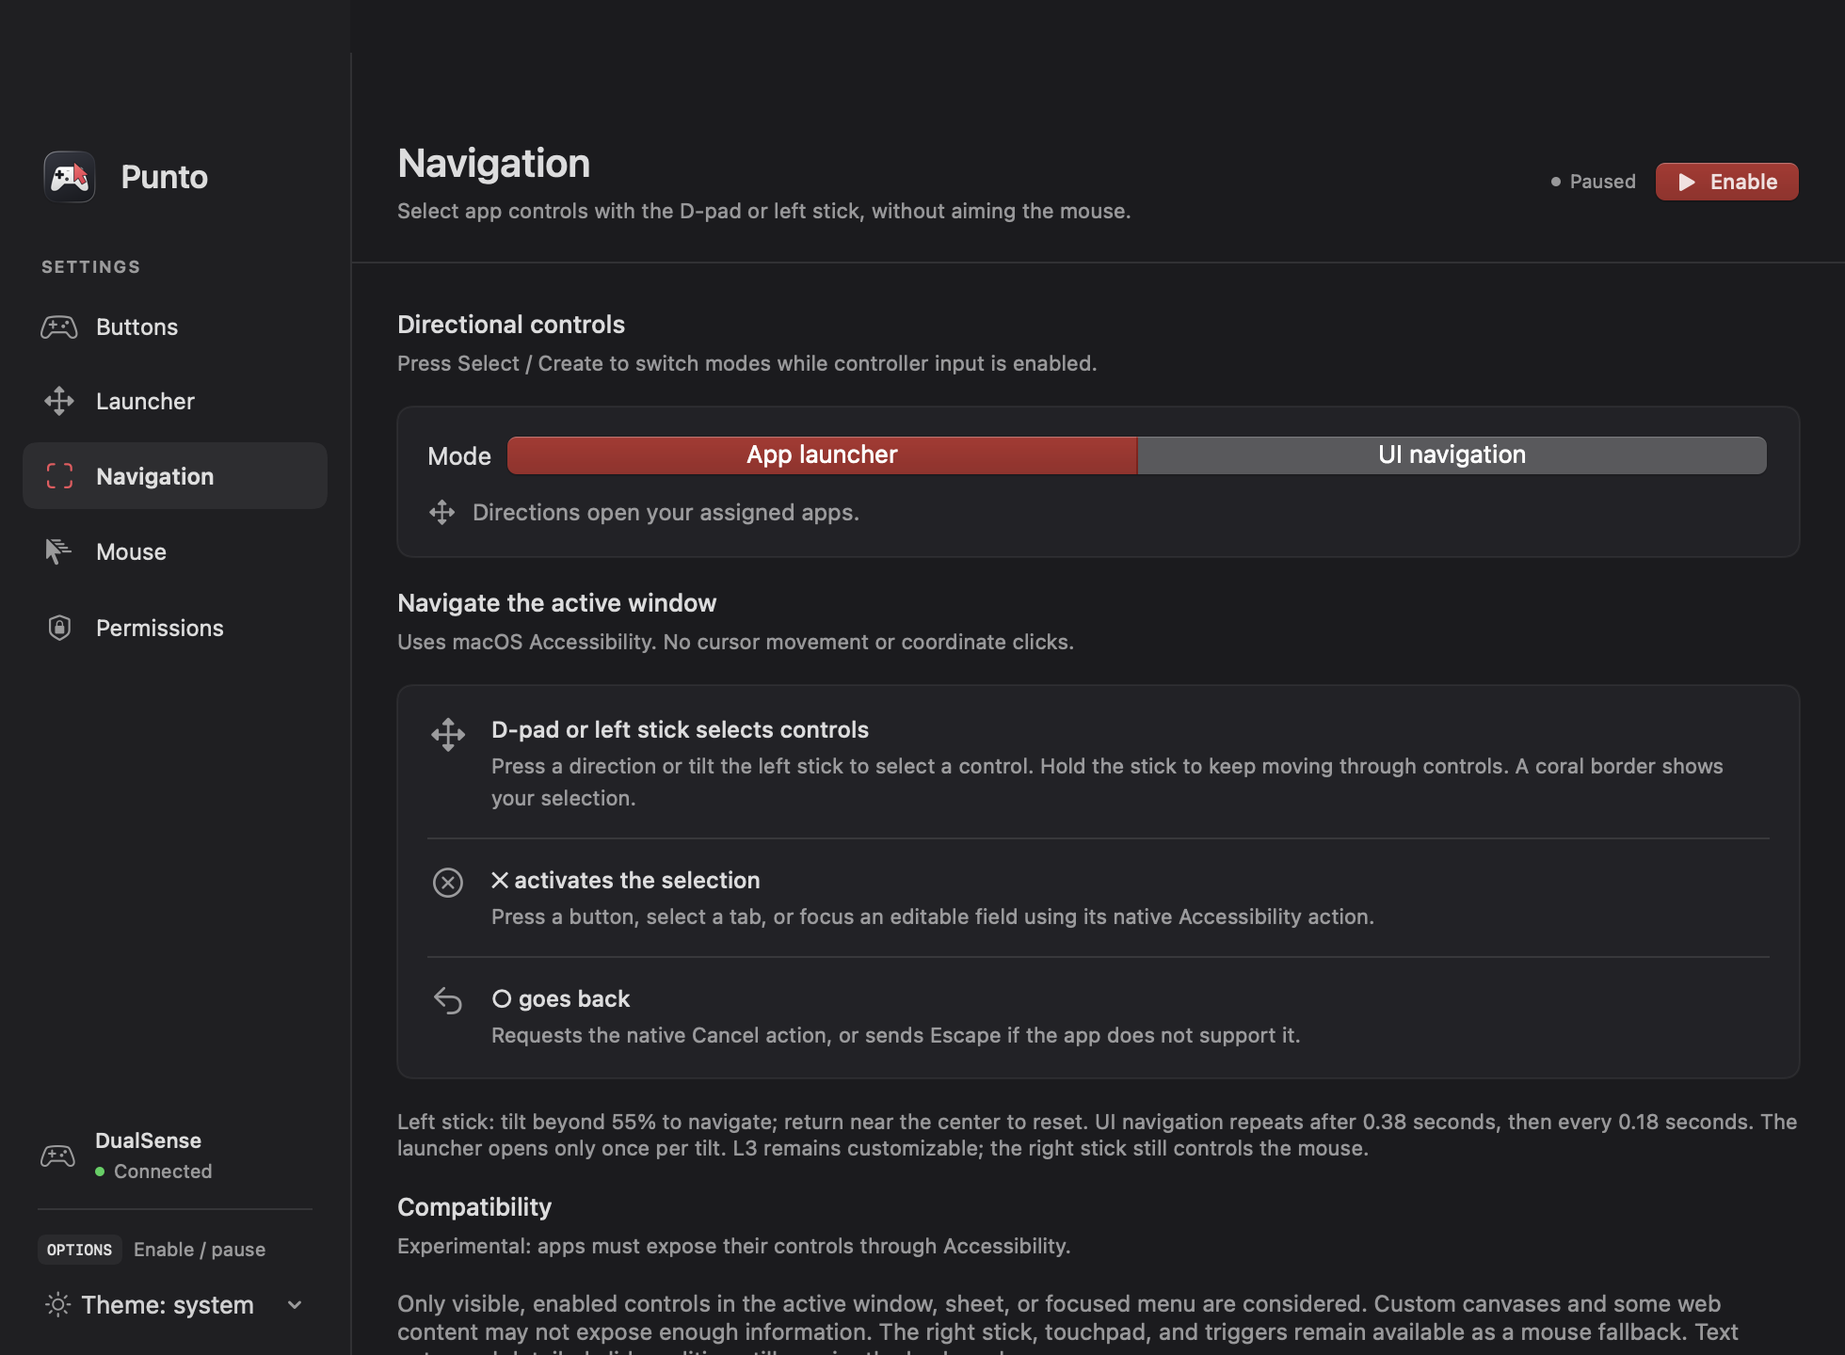
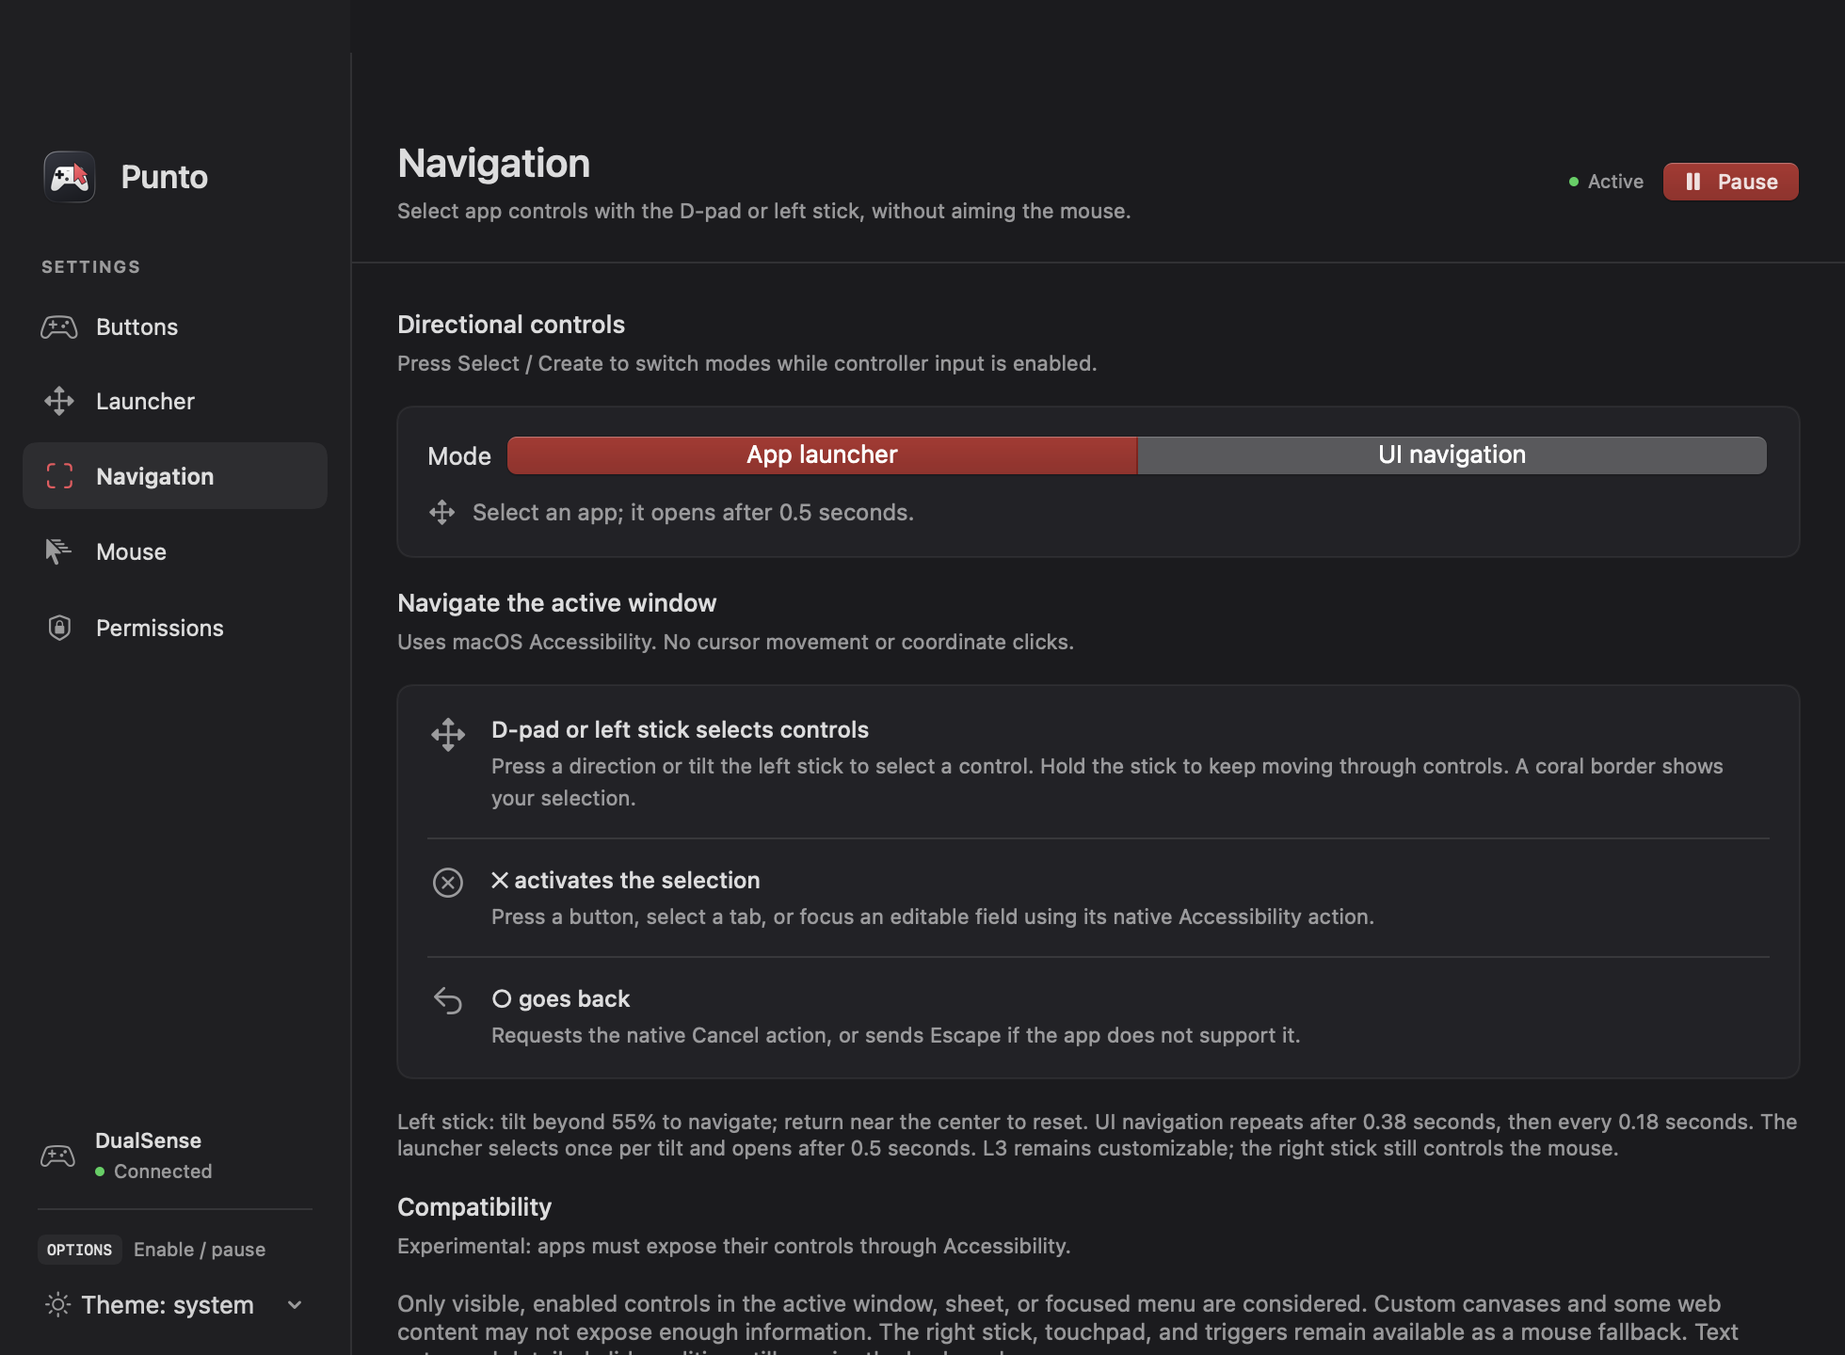
Delay launcher opening until selection is stable for 500 ms

Changed region(s): [[0.2801, 0.8438, 0.8714, 0.875], [0.249, 0.375, 0.498, 0.4062], [0.8403, 0.125, 0.9648, 0.1562]]

diff --git a/UI.swift b/UI.swift
@@ -402,10 +402,10 @@ private struct SettingsView: View {
     }
     private var launcherSettings: some View {
         VStack(alignment: .leading, spacing: 20) {
-            heading("Directional navigation", detail: "Use the D-pad or left stick to open an app. Repeat the same direction while the overlay is visible to open the second.")
+            heading("Directional navigation", detail: "Use the D-pad or left stick to select an app. It opens after 0.5 seconds; changing selection restarts the delay.")
             HStack(spacing: 18) {
-                Label("Instant launch · no confirmation", systemImage: "bolt.fill")
-                Label("○ dismisses the overlay", systemImage: "xmark.circle")
+                Label("Opens after 0.5 s · no confirmation", systemImage: "bolt.fill")
+                Label("○ cancels the pending launch", systemImage: "xmark.circle")
             }.font(.system(size: 11)).foregroundColor(.secondary)
             ForEach(0..<4, id: \.self) { direction in
                 VStack(alignment: .leading, spacing: 12) {
@@ -435,7 +435,7 @@ private struct SettingsView: View {
                     }
                 }.padding(18).card(radius: 8)
             }
-            Text("Controller input must be enabled. The overlay disappears after 1.2 seconds. Directions open apps; ✕ and ○ do not run their normal shortcuts while it is visible. Previous D-pad assignments remain stored; previously assigned apps are migrated to slot 1.")
+            Text("Controller input must be enabled. The overlay disappears after 1.2 seconds. The selected app opens after 0.5 seconds; ✕ and ○ do not run their normal shortcuts while it is visible. Previous D-pad assignments remain stored; previously assigned apps are migrated to slot 1.")
                 .font(.system(size: 10)).foregroundColor(.secondary).lineSpacing(3)
         }
     }
@@ -447,7 +447,7 @@ private struct SettingsView: View {
                     Text("App launcher").tag(false)
                     Text("UI navigation").tag(true)
                 }.pickerStyle(.segmented)
-                Label(model.uiNavigationEnabled ? model.navigationStatus : "Directions open your assigned apps.", systemImage: model.uiNavigationEnabled ? "viewfinder" : "arrow.up.and.down.and.arrow.left.and.right")
+                Label(model.uiNavigationEnabled ? model.navigationStatus : "Select an app; it opens after 0.5 seconds.", systemImage: model.uiNavigationEnabled ? "viewfinder" : "arrow.up.and.down.and.arrow.left.and.right")
                     .font(.system(size: 12)).foregroundColor(.secondary).lineLimit(3)
             }.padding(16).card()
             heading("Navigate the active window", detail: "Uses macOS Accessibility. No cursor movement or coordinate clicks.")
@@ -458,7 +458,7 @@ private struct SettingsView: View {
                 Divider()
                 instruction("arrow.uturn.backward", title: "○ goes back", detail: "Requests the native Cancel action, or sends Escape if the app does not support it.")
             }.padding(16).card()
-            Text("Left stick: tilt beyond 55% to navigate; return near the center to reset. UI navigation repeats after 0.38 seconds, then every 0.18 seconds. The launcher opens only once per tilt. L3 remains customizable; the right stick still controls the mouse.")
+            Text("Left stick: tilt beyond 55% to navigate; return near the center to reset. UI navigation repeats after 0.38 seconds, then every 0.18 seconds. The launcher selects once per tilt and opens after 0.5 seconds. L3 remains customizable; the right stick still controls the mouse.")
                 .font(.system(size: 11)).foregroundColor(.secondary)
             heading("Compatibility", detail: "Experimental: apps must expose their controls through Accessibility.")
             Text("Only visible, enabled controls in the active window, sheet, or focused menu are considered. Custom canvases and some web content may not expose enough information. The right stick, touchpad, and triggers remain available as a mouse fallback. Text entry and detailed slider editing still require the keyboard or mouse.")

diff --git a/tests/launcher-ui.m b/tests/launcher-ui.m
@@ -6,9 +6,11 @@
 #include <assert.h>
 @interface LauncherTestApp : App
 @property NSString *launchedPath;
+@property NSInteger launchCount;
 @end
 @implementation LauncherTestApp
-- (void)launchApplication:(NSString *)path {self.launchedPath=path;}
+- (void)launchApplication:(NSString *)path {self.launchedPath=path;self.launchCount++;}
+- (void)saveNavigationMode {}
 @end
 static NSString *appPath(NSString *identifier){
     return [NSWorkspace.sharedWorkspace URLForApplicationWithBundleIdentifier:identifier].path?:@"";
@@ -30,7 +32,9 @@ int main(void){@autoreleasepool{
     assert([delegate handleButton:15 pressed:YES]);assert(!input_scroll_active());
     assert([[delegate settingsSnapshot][@"launcherVisible"] boolValue]);
     assert([[delegate settingsSnapshot][@"launcherSlot"] intValue]==0);
-    assert([delegate.launchedPath isEqualToString:up[0]]); // Immediate automatic launch.
+    assert(!delegate.launchedPath&&[delegate.pendingLauncherPath isEqual:up[0]]);
+    double firstDeadline=delegate.launcherLaunchTime;
+    [delegate updateLauncherAtTime:firstDeadline-0.01 trusted:YES];assert(delegate.launchCount==0);
     assert(application.activationPolicy==NSApplicationActivationPolicyAccessory);
     assert(!delegate.launcherPanel.isKeyWindow);
     assert(delegate.launcherPanel.isVisible); // Overlay alone must not add a Dock icon.
@@ -39,7 +43,12 @@ int main(void){@autoreleasepool{
     assert([delegate handleButton:15 pressed:NO]);
     [delegate handleButton:15 pressed:YES];
     assert([[delegate settingsSnapshot][@"launcherSlot"] intValue]==1);
-    assert([delegate.launchedPath isEqualToString:up[1]]);
+    assert(!delegate.launchedPath&&[delegate.pendingLauncherPath isEqual:up[1]]);
+    assert(delegate.launcherLaunchTime>firstDeadline);
+    [delegate updateLauncherAtTime:firstDeadline trusted:YES];assert(delegate.launchCount==0);
+    [delegate updateLauncherAtTime:delegate.launcherLaunchTime trusted:YES];
+    assert([delegate.launchedPath isEqual:up[1]]&&delegate.launchCount==1);
+    [delegate updateLauncherAtTime:firstDeadline+1 trusted:YES];assert(delegate.launchCount==1);
     [delegate handleButton:18 pressed:YES];
     assert([[delegate settingsSnapshot][@"launcherDirection"] intValue]==3);
     assert([[delegate settingsSnapshot][@"launcherSlot"] intValue]==0);
@@ -48,15 +57,24 @@ int main(void){@autoreleasepool{
     [delegate handleButton:2 pressed:YES];
     assert(![[delegate settingsSnapshot][@"launcherVisible"] boolValue]);
     assert(!delegate.launcherPanel.isVisible&&input_enabled());
-    assert([delegate.launchedPath isEqualToString:beforeCancel]); // Circle does not launch anything.
+    [delegate updateLauncherAtTime:firstDeadline+5 trusted:YES];
+    assert([delegate.launchedPath isEqualToString:beforeCancel]&&delegate.launchCount==1); // Circle cancels the pending app.
     [delegate handleButton:15 pressed:YES];[delegate handleButton:15 pressed:YES];
     [delegate handleButton:1 pressed:YES];
-    assert([delegate.launchedPath isEqualToString:up[1]]);
+    assert(delegate.launchCount==1); // X does not bypass the delay.
+    [delegate updateLauncherAtTime:delegate.launcherLaunchTime trusted:YES];
+    assert([delegate.launchedPath isEqualToString:up[1]]&&delegate.launchCount==2);
     assert([[delegate settingsSnapshot][@"launcherVisible"] boolValue]); // X is not a confirmation.
     assert(delegate.launcherHideTime>NSProcessInfo.processInfo.systemUptime);
     [delegate handleButton:15 pressed:YES];input_enable(false);
     assert(!delegate.launcherPanel.isVisible);
+    [delegate updateLauncherAtTime:firstDeadline+5 trusted:YES];assert(delegate.launchCount==2);
     input_enable(true);[delegate handleButton:15 pressed:YES];
+    [delegate updateLauncherAtTime:delegate.launcherLaunchTime trusted:NO];
+    [delegate updateLauncherAtTime:firstDeadline+5 trusted:YES];assert(delegate.launchCount==2);
+    [delegate handleButton:15 pressed:YES];[delegate setUINavigationEnabled:YES];
+    [delegate updateLauncherAtTime:firstDeadline+5 trusted:YES];assert(delegate.launchCount==2);
+    [delegate setUINavigationEnabled:NO];[delegate handleButton:15 pressed:YES];
     [[NSRunLoop currentRunLoop] runUntilDate:[NSDate dateWithTimeIntervalSinceNow:0.3]];
     NSView *view=delegate.launcherPanel.contentView;[view layoutSubtreeIfNeeded];
     NSBitmapImageRep *bitmap=[view bitmapImageRepForCachingDisplayInRect:view.bounds];
@@ -67,5 +85,5 @@ int main(void){@autoreleasepool{
     assert([png writeToFile:@"build/ui-launcher.png" atomically:YES]);
     [delegate hideLauncher];input_stop();input_button_handler(NULL);currentApp=nil;
     [defaults setVolatileDomain:original?:@{} forName:NSArgumentDomain];
-    puts("PASS: automatic directional launch, two-slot cycle, cancel, suspend cleanup, compact tiles-only layout, no focus or Dock activation");
+    puts("PASS: delayed latest-selection launch, deadline reset, one-shot, cancel/pause/permission/mode-change safety, compact tiles-only layout, no focus or Dock activation");
 }return 0;}

diff --git a/main.m b/main.m
@@ -20,6 +20,8 @@
 @property BOOL navigationMode;
 @property NSPanel *launcherPanel;
 @property double launcherHideTime;
+@property double launcherLaunchTime;
+@property NSString *pendingLauncherPath;
 @property NSStatusItem *item;
 @property NSWindow *window;
 @property NSTimer *timer;
@@ -234,13 +236,21 @@ static void hold_event(int index,HoldEvent event){[currentApp holdEvent:index ev
     input_suppress_pointer(true);
     if(!self.launcherPanel)self.launcherPanel=[PadMacUI makeLauncherWithController:self];
     [self.launcherPanel center];[self.launcherPanel orderFrontRegardless];
-    self.launcherHideTime=NSProcessInfo.processInfo.systemUptime+1.2;
-    NSString *path=[self launcherApps:_launcher.direction][_launcher.slot];
-    if(path.length)[self launchApplication:path];
+    double now=NSProcessInfo.processInfo.systemUptime;
+    self.launcherHideTime=now+1.2;
+    self.pendingLauncherPath=[self launcherApps:_launcher.direction][_launcher.slot];
+    self.launcherLaunchTime=self.pendingLauncherPath.length?now+0.5:0;
 }
 - (void)hideLauncher {
-    self.launcherHideTime=0;launcher_reset(&_launcher);[self.launcherPanel orderOut:nil];
+    self.launcherHideTime=0;self.launcherLaunchTime=0;self.pendingLauncherPath=nil;launcher_reset(&_launcher);[self.launcherPanel orderOut:nil];
     self.launcherPanel.contentView=nil;self.launcherPanel=nil;input_suppress_pointer(false);
+}
+- (void)updateLauncherAtTime:(double)now trusted:(BOOL)trusted {
+    if(!trusted||!input_enabled()||self.navigationMode){self.launcherLaunchTime=0;self.pendingLauncherPath=nil;return;}
+    if(!_launcher.visible||self.launcherLaunchTime<=0||now<self.launcherLaunchTime)return;
+    NSString *path=self.pendingLauncherPath;
+    self.launcherLaunchTime=0;self.pendingLauncherPath=nil;
+    if(path.length)[self launchApplication:path];
 }
 - (void)launchApplication:(NSString *)path {
     if(!path.length)return;
@@ -268,6 +278,7 @@ static void hold_event(int index,HoldEvent event){[currentApp holdEvent:index ev
         if(previous>=0&&_leftStick.direction<0)[self.uiNavigation stopStickNavigation];
         if(direction>=0)[self navigateStickDirection:direction];
     }else stick_navigation_reset(&_leftStick);
+    [self updateLauncherAtTime:now trusted:trusted];
 }
 - (void)toggleControl {
     if(input_enabled()){input_enable(false);return;}

diff --git a/tests/navigation-ui.m b/tests/navigation-ui.m
@@ -40,7 +40,8 @@ int main(void){@autoreleasepool{
     [app handleButton:8 pressed:YES];assert(!app.navigationMode&&!input_scroll_active());
     [app handleButton:8 pressed:NO];assert(!app.navigationMode);
     [app handleButton:1 pressed:YES];assert([app.launchedPath isEqual:@"cross-app"]);
-    [app navigateStickDirection:0];assert(app.launcherPanel.isVisible&&[app.launchedPath isEqual:@"demo-app"]);
+    [app navigateStickDirection:0];assert(app.launcherPanel.isVisible&&[app.launchedPath isEqual:@"cross-app"]);
+    [app updateLauncherAtTime:app.launcherLaunchTime trusted:YES];assert([app.launchedPath isEqual:@"demo-app"]);
     [app handleButton:8 pressed:YES];assert(app.navigationMode&&!app.launcherPanel.isVisible);
     assert([defaults integerForKey:@"action8"]==11&&[[defaults stringForKey:@"app8"] isEqual:@"old-select-app"]);
     assert(![app validButton:8]&&[app validButton:13]);

diff --git a/docs/DEVELOPMENT.md b/docs/DEVELOPMENT.md
@@ -94,11 +94,11 @@ When upgrading from the old bundle, replace the old Dock shortcut with `Punto.ap
 ### Launcher
 
 - Two slots per direction, saved as application paths.
-- A D-pad direction selects and **immediately opens** the first available app.
+- A D-pad direction or left-stick tilt selects the first available app. It opens **500 ms after the last selection**, without confirmation.
 - Pressing the same direction again while the overlay is visible cycles between occupied slots.
 - A different direction selects its first available app.
 - The overlay closes **1.2 seconds** after the last direction press. A later press starts from the first slot again.
-- ○ only dismisses visual feedback; it does not close an app already opened.
+- Changing selection restarts the 500 ms deadline and replaces the pending app. ○ cancels pending launch and dismisses feedback; it does not close an app already opened. Pause, disconnect, permission loss, mode changes, and overlay closure also cancel pending launch. The deadline is checked after stick navigation in the main tick, so a new selection takes precedence over an expiring launch.
 - The non-activating panel is at most **368 × 368 points**, with eight 64-point square tiles arranged by direction. Up/down pairs are stacked vertically; left/right pairs are horizontal. The four arms align on a regular grid around a 64-point empty center, with 6-point gaps between cells. The horizontal center gap includes the two adjacent gaps (76 points total). Background material is applied to each tile, not to the whole panel, so the center and corners remain transparent. Slot 1 is always nearest the center and slot 2 extends outward: visual order is reversed for Up and Left, without changing saved assignments or launch order. There is no center icon, header, footer, or instructional text; the selected tile has a coral border. Direction and slot labels remain available to Accessibility. It does not steal focus or add a Dock icon on its own.
 - Other buttons are consumed and cursor movement is suppressed while the overlay is visible.
 
@@ -149,7 +149,7 @@ make test-navigation-ui
 | `launcher` | Directions, two slots, empty slots, and reset |
 | `scroll` | Directions, sensitivity, bounds, fractional deltas, and cursor restoration |
 | `dock` | Showing the Dock icon with settings, closing, and reopening |
-| `launcher-ui` | Routing, automatic launching, dismissal, and overlay preview |
+| `launcher-ui` | Delayed latest-selection launching, deadline reset, one-shot delivery, cancellation safety, and overlay preview |
 | `navigation` | Direction scoring, row/column preference, boundaries, invalid rectangles, and multiple-display coordinates |
 | `navigation-ui` | D-pad/left-stick routing, coalesced repeats, mode switching, activation/back, shortcut isolation, pause, and preserved assignments |
 | `stick` | Four directions, thresholds, diagonal hysteresis, repeat timing, single-shot launching, and recenter safety |
@@ -175,7 +175,7 @@ The fixture inspects and acts **only on its own window**, even if another app be
 - [ ] R1 scrolling in all directions, sensitivity changes, and cursor restoration.
 - [ ] Held shortcuts and modifier-only ⌥⇧, including a voice assistant.
 - [ ] Tap/hold behavior and pausing before/after the threshold.
-- [ ] Automatic launcher opening, second slot, direction changes, and timeout.
+- [ ] Launcher selection delay, second slot, deadline reset, ○ cancellation, and timeout.
 - [ ] No normal ✕/○ shortcut while the overlay is visible.
 - [ ] Select/Create switches launcher/navigation without running its saved assignment; touchpad click runs its configured action.
 - [ ] Left-stick directions, held repeat, recentering, and independent right-stick mouse control.

diff --git a/README.md b/README.md
@@ -34,7 +34,7 @@
 | **Custom shortcuts** | Record your own combination, including modifier-only chords such as ⌥⇧. |
 | **Push-to-talk** | Keep the shortcut pressed for as long as you hold the controller button. |
 | **Long press** | Assign a second shortcut to the same button. |
-| **Directional launcher** | Four directions, up to two apps per direction. Launch instantly. |
+| **Directional launcher** | Four directions, up to two apps per direction. Open after a 0.5-second selection delay. |
 | **UI navigation** | Select controls in the active app with the D-pad or left stick and activate them with ✕. No mouse aiming. |
 
 A **native SwiftUI interface**, dark/light/system themes, and automatically saved preferences. The app requires no server, account, or web service.
@@ -43,7 +43,7 @@ A **native SwiftUI interface**, dark/light/system themes, and automatically save
 
 ### An app launcher that feels like a HUD
 
-Press a direction to open the app immediately. A compact **368 × 368-point** overlay shows app tiles in a cross around an empty center, with transparent space between the arms and a coral border around your selection. Press the same direction again while it is visible to switch to the second app. It disappears after **1.2 seconds**—no confirmation button required.
+Press a direction to select an app. It opens **0.5 seconds after the last selection**; changing selection restarts the delay, and **○ cancels** a pending launch. A compact **368 × 368-point** overlay shows app tiles in a cross around an empty center, with transparent space between the arms and a coral border around your selection. Press the same direction again while it is visible to switch to the second app. It disappears after **1.2 seconds**—no confirmation button required.
 
 <p align="center">
   <img src="docs/screenshots/launcher-overlay.png" width="400" alt="Punto’s compact overlay with two apps in each of four directions">
@@ -95,9 +95,9 @@ Choose up to **eight applications**, arranged across up, right, down, and left.
 | **R1 + right stick** | Scroll vertically and horizontally |
 | **R2** | Left click; hold to drag |
 | **L2** | Right click; hold to drag |
-| **↑ → ↓ ←** | Launcher: open an app. UI navigation: select a control. |
+| **↑ → ↓ ←** | Launcher: select an app (opens after 0.5 s). UI navigation: select a control. |
 | **✕ / ○ in UI navigation** | Activate the selection / go back |
-| **○ while the overlay is visible** | Dismiss the visual feedback |
+| **○ while the overlay is visible** | Cancel a pending launch and dismiss the overlay |
 | **Options** | Enable or pause controller input |
 | Other buttons | Custom shortcuts or application actions |
 
